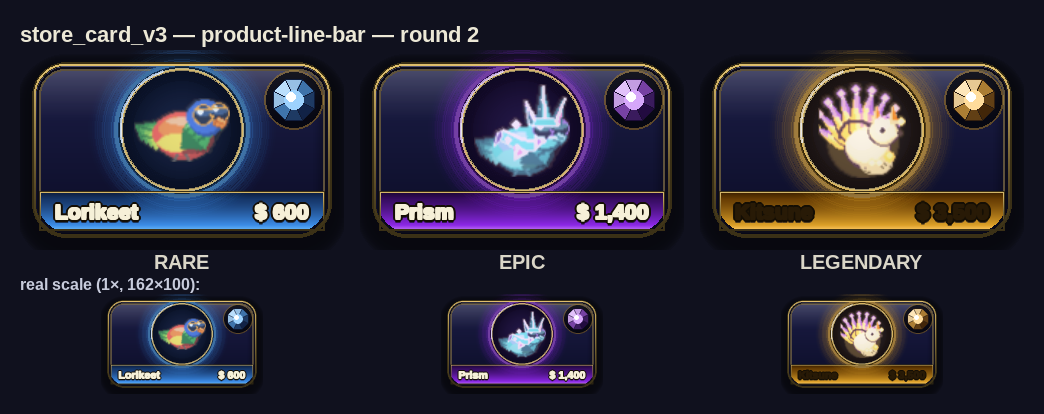
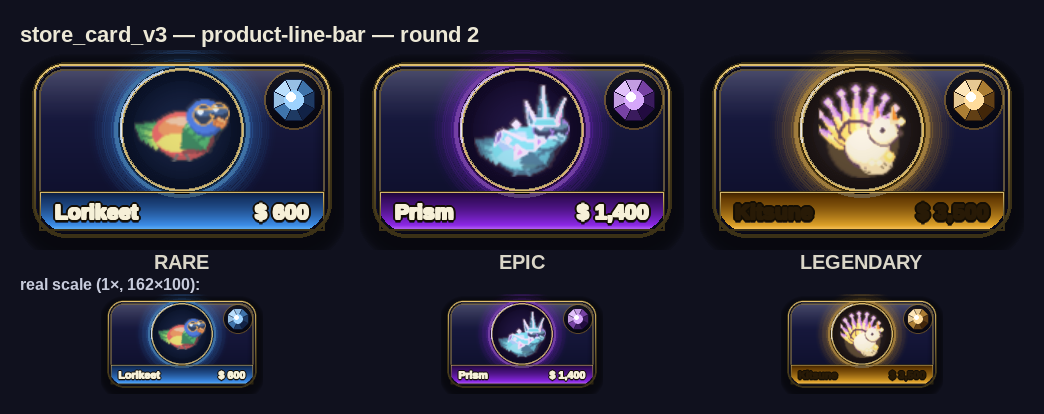
store_card_v3 product-line-bar r2: adaptive text, inverted ramp, inset bar
Claude-Session: https://claude.ai/code/session_011726ot8uBSmurQVaEkGY6K

diff --git a/tools/_store_card_v3_product_line_bar_r2.py b/tools/_store_card_v3_product_line_bar_r2.py
@@ -202,8 +202,13 @@ def render_card(sid, pal, price, name):
     pygame.draw.circle(big, (*pal["gem"], 100), (cx, cy), m(R) + m(2), width=m(2))
 
     # 10. gutter halo — pulled back (R+16, softer peak) since the shelf bar now
-    #     carries the rarity read and the halo shouldn't compete with it.
+    #     carries the rarity read and the halo shouldn't compete with it. Clipped
+    #     to above the bar so its lower arcs stay in the side gutters and never
+    #     streak across the shelf the disc overhangs.
+    prev_clip = big.get_clip()
+    big.set_clip(pygame.Rect(0, 0, big.get_width(), bar.top))
     _gutter_aura(big, cx, cy, m(R), m(R + 16), pal["glow"], peak=65, layers=18)
+    big.set_clip(prev_clip)
 
     #     top-edge AO so the bar reads as resting below the overhanging disc.
     _top_edge_shadow(big, bar, depth=m(4), alpha=100)
